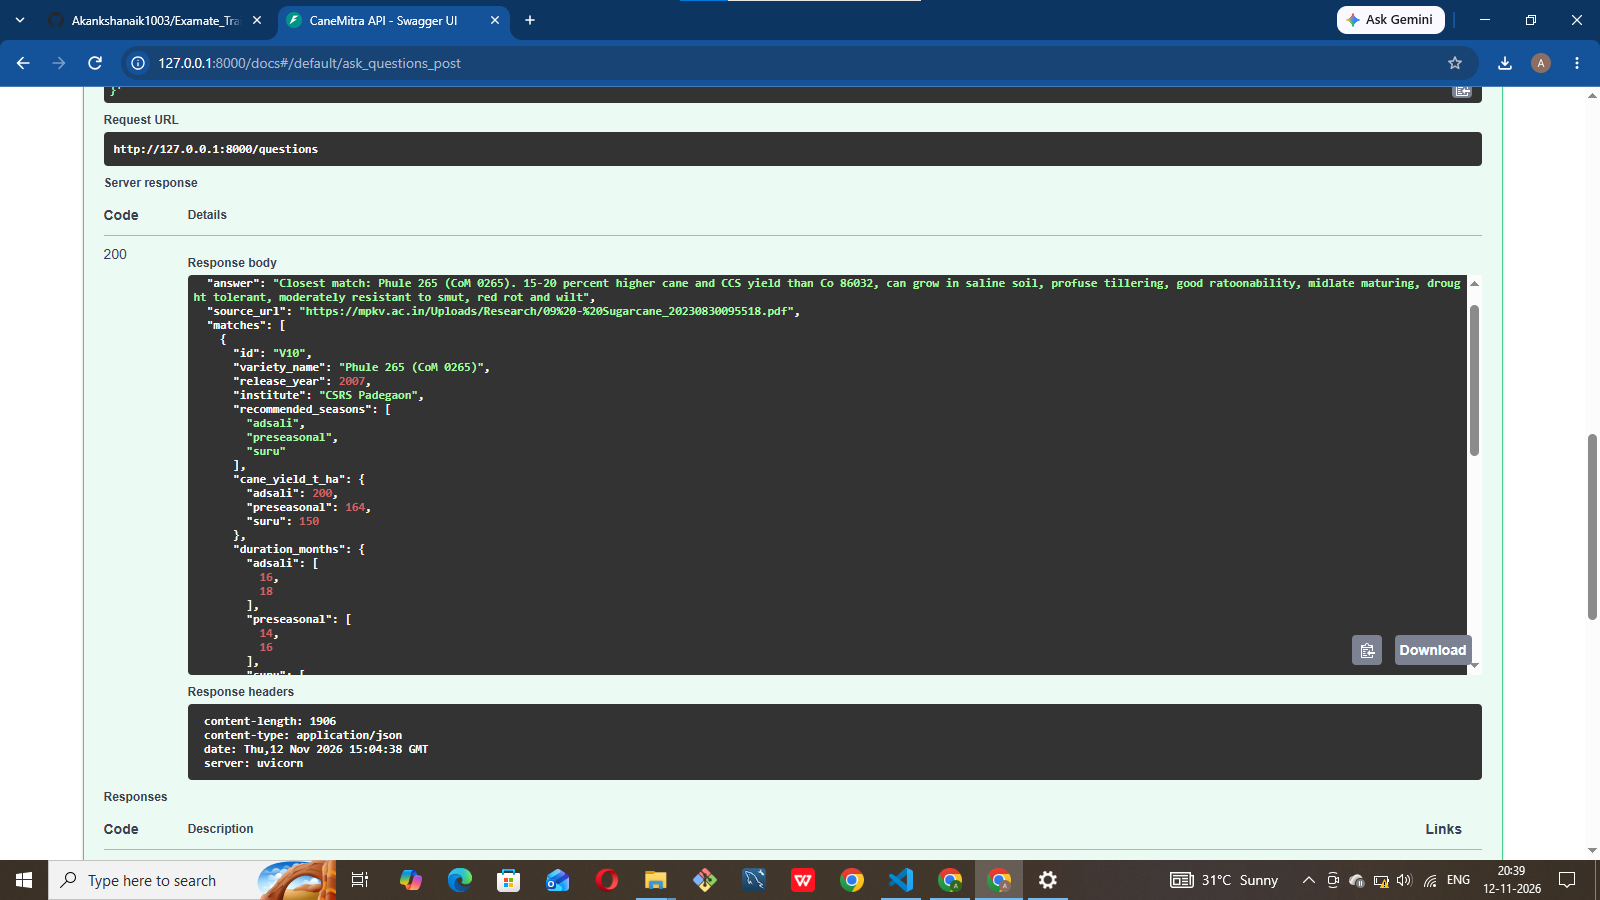
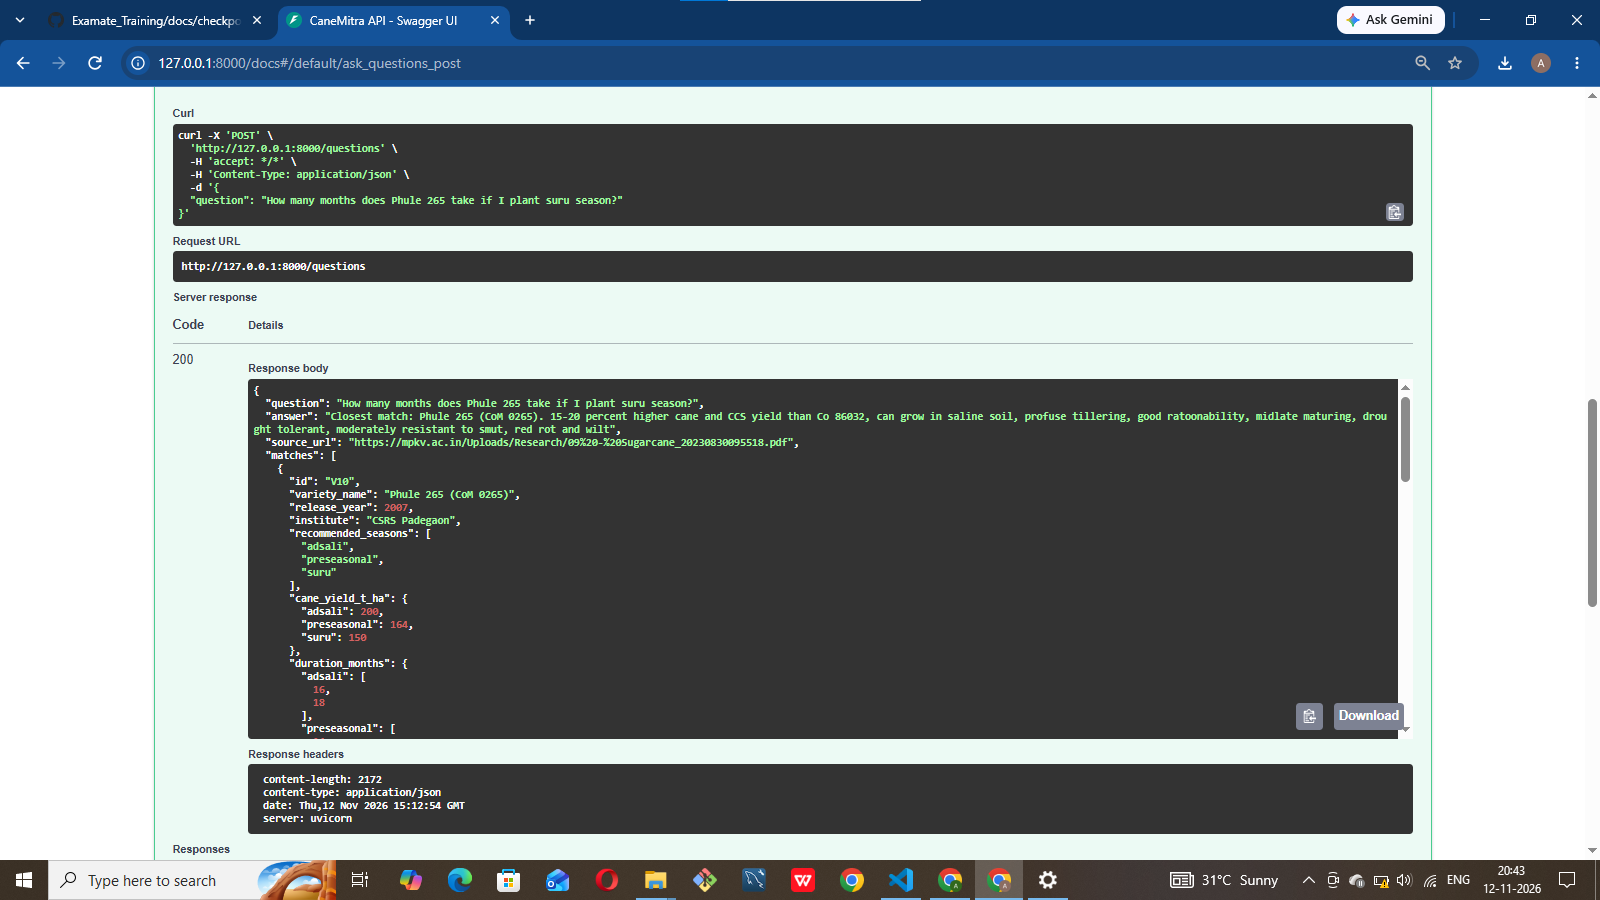
D5: add LLM explainer, user questions and checkpoint 1

diff --git a/docs/user_questions.md b/docs/user_questions.md
@@ -19,10 +19,3 @@ Real questions a sugarcane farmer might ask, checked against CaneMitra's data (`
 | 9 | Mi Phule 265 October madhe lavla, todni kadhi karu? | Farmer asking for a harvest date | **Partly** | Duration is in the data (preseasonal 14 to 16 months), so a window can be worked out. A harvest-window feature is not built yet |
 | 10 | Aaj sugarcane cha bhav / FRP kiti aahe? | Farmer checking price | **No** | No price or FRP data. This needs a live government or factory source |
 
-## Notes
-
-- **Q6 is the "data cannot answer" question.** The data has variety traits, not fertilizer doses. A correct CaneMitra should say it does not have this information and point to a proper source, instead of guessing.
-- **Q10 is a second question the data cannot answer.** It needs live data that changes often.
-- **Q8 and Q9 are partly answerable.** They show which feature to build next: planting window and harvest window.
-- **Test in `/docs`:** run Q3 and Q6 on `POST /questions`. Q3 returns a sensible variety. Q6 may still return the "closest" record, because TF-IDF matches words and not meaning, even though the answer is not in the data. This is a known limitation, listed in the README, and it is exactly the hallucination risk described in `how_llms_work.md`.
-- Q1 to Q6 should match the 6 questions on your project card. If your card has different ones, swap them in, but keep Q6 as the one the data cannot answer.
